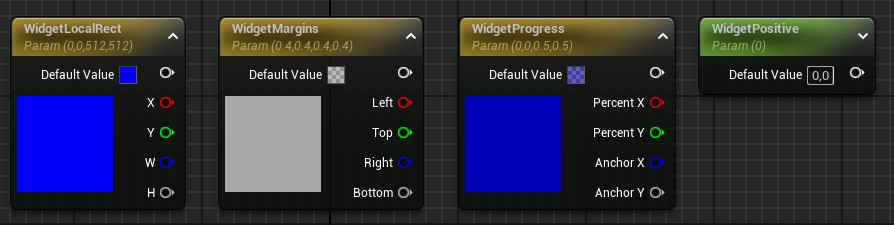
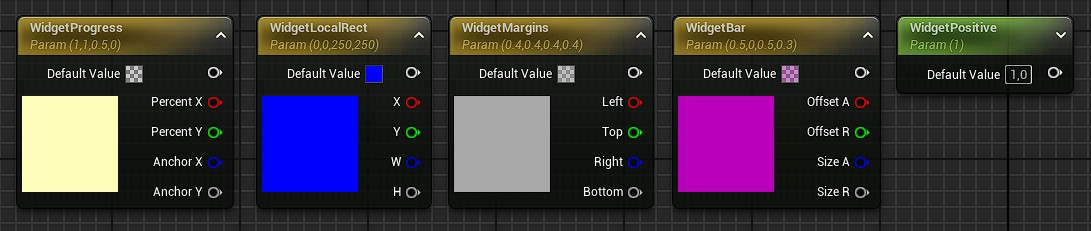
Updated HealthBar docs to v1.1.0

diff --git a/HealthBar/Customize.md b/HealthBar/Customize.md
@@ -1,0 +1,127 @@
+---
+label: Customize
+order: -50
+---
+
+# Customize Your Bars
+
+This plugin lets you create virtually any style of bar.
+No matter how much experience you have with materials and shaders, you can customize your health and progress bars however you like.
+
+## :icon-rocket: Easy Customization
+
+If you don't have much experience with materials in Unreal Engine, the plugin includes a basic material named `MM_CHB`.
+This basic material is sufficient in most cases, so I'd recommend you to try it first before starting creating your own material.
+
+The first thing is to create a new `Material Instance` and set its parent to `MM_CHB`.
+
+![](/static/images/HealthBar/chb_material_parent.jpg)
+
+!!!info
+After setting the parent, close the asset and re-open it to refresh the window.
+!!!
+
+Depending on your needs, you may have to create multiple material instances (background, fill, preview, fade).  
+There are a lot of parameters in the material to let you build the health bar *you* want.
+
+### Category: `Bar`
+
+![](/static/images/HealthBar/chb_material_settings_bar.jpg)
+
+- **`Fill Image`**: The texture used for the bar. It can be either the inner filling bar (for fill, preview and fade), or the background (if you want to use the material for the background, for example with radial bars).  
+- **`Fill Image Scale`**: Modify the pixel density of the fill texture. Useful to grow or shrink the size of the border.
+- **`Enable Positive/Negative`**: Enable the use of the positive or negative value passed to the shader.
+- **`Tint`**: The fill image will be multiplied with this color. If the positive/negative feature is enabled, you can set a separate color for the positive and negative case.
+
+!!!info
+As of now, the `Positive` value is passed only to the preview and fade of the health bar widget. The fill and background will not have it.
+!!!
+
+!!!tip
+I recommend you to use as much as possible a white tint (if disabling the positive/negative feature) so you will be able to use the same material and change the color in the widget itself.
+!!!
+
+### Category: `Radial`
+
+![](/static/images/HealthBar/chb_material_settings_radial.jpg)
+
+If you set the widget's filling type on `Radial`, you need to enable the radial feature on the material too.
+
+This switches the UV coordinate from orthogonal to polar coordinate system. It adds 30% more instructions to the material, though.
+
+- **`ReverseY`**: This will reverse the Y axis of the UV to make it upside-down.
+- **`Crop Margins`**: Those switches will crop out the borders of the texture. Useful if you want to use a box texture to make a full 360° bar without the left and right border. It is better to use directly a texture without the borders, though.
+
+### Category: `Overlay`
+
+![](/static/images/HealthBar/chb_material_settings_overlay.jpg)
+
+You can enable or disable the overlay on the bar. If you disable it, the material is more optimized.
+
+- **`Overlay Image`**: Set the texture you want for the overlay here.
+- **`Overlay Opacity`**: Controls the lerp between the `Fill Image` and the `Overlay Image`.
+- **`Speed X/Y`**: Animate the overlay along the X or Y axis at the specified speed. If you enabled the positive/negative feature, the speed will be reversed when negative.
+- **`Mirror X/Y when Negative`**: If you enabled the positive/negative feature, the overlay will be mirrored along the X or Y axis if negative, instead of reversing the speed.
+- **`Enable Absolute X/Y`**: If enabled, the texture UV will be screen space absolute instead of widget relative. For radial bar, absolute means the overlay UV will be absolute on the polar coordinate from the center of the widget, regardless of the bar size/thickness (X=0 means 0° and X=1 means 360°, and Y=0 means the center of the widget and Y=1 means the border of the widget).
+- **`Enable Tiling X/Y`**: Use the overlay texture size to tile it on the X or Y axis.
+- **`Tiling Scale X/Y`**: When the tiling is enabled on the axis, modify the scale the tiling.
+
+### Category: `SetByCode`
+
+![](/static/images/HealthBar/chb_material_settings_setbycode.jpg)
+
+Those parameters are the ones (as the name of the category implies) set by the code of the plugin.
+
+You can still set specific values to preview how it will behave but they will be overridden by the widget.
+
+- **`WidgetBar`**: Only for radial bars. Defines the offset and size on each axis.
+- **`WidgetLocalRect`**: The location and size of the widget itself.
+- **`WidgetMargins`**: The box margins to define the border area of the texture. This is the margins set in the `Draw As Box` of the widget style.
+- **`WidgetPositive`**: The boolean to control if the bar is positive (1) or negative (0). It is set only for the preview and fade bars.
+- **`WidgetProgress`**: The progress percentage and the filling anchor for the filling bar.
+
+## :icon-mortar-board: Advanced Customization
+
+You can create your own materials for your health bars.
+This section explains what the plugin offers to help you create amazing materials.
+
+!!!tip
+The widget automatically creates Dynamic Material Instances (MIDs) for the brushes if needed.
+!!!
+
+### Exposed Parameters
+
+If your materials contain specific parameters, the widget will update them every frame during the `OnPaint` cycle, allowing you to create advanced shaders (e.g. moving patterns, borders, tiling, etc.) that react to the bar's state.
+
+!!!warning
+Make sure your parameters are named exactly as described here!
+!!!
+
+![](/static/images/HealthBar/chb_materialparams.jpg)
+
+{.compact}
+
+| Parameter Name | Type | Description |
+| --- | --- | --- |
+| `WidgetLocalRect` | `Vector4` | The local geometry of the widget.<br>`X`, `Y`: Top-Left position<br>`Z`, `W`: Width and Height |
+| `WidgetMargins` | `Vector4` | The padding values set on the widget.<br>`X`: Left<br>`Y`: Top<br>`Z`: Right<br>`W`: Bottom
+| `WidgetProgress` | `Vector4` | Current fill status.<br>`X`, `Y`: Fill Progress (0.0 to 1.0) on X and Y axes.<br>`Z`, `W`: Anchor point (0.0=Start, 0.5=Center, 1.0=End). |
+| `WidgetBar` | `Vector4` | Set when fill type is on `Radial`.<br>`X`: The angular offset of the bar (0.0 = 0°, 1.0 = 360°)<br>`Y`: The radius offset of the bar.<br>`Z`: The angular size of the bar (0.0 = 0°, 1.0 = 360°)<br>`W`: The radius size of the bar (percentage of half of the widget size). |
+| `WidgetPositive` | `Scalar` | Context-sensitive boolean flag.<br>`1.0`: The specific bar (Preview/Fade) represents a "positive" delta (Healing/Gain).<br>`0.0`: Represents a "negative" delta (Damage/Loss). |
+
+### 9-Slice Material Node
+
+![](/static/images/HealthBar/chb_9slice_node.jpg)
+
+Since I was not happy with the default `Draw as Box` of Unreal Engine, I've created a custom material node to make the 9-slice of the UV in the material.
+
+By default, the 9-slice of UE (the `Draw as Box`) will stretch the borders when the size of the widget is smaller than the size of the borders.
+
+So I've implemented a custom 9-slice node, usable in your materials, which properly handles the border's UVs when the size of the widget is smaller than the size of the borders.
+
+![](/static/images/HealthBar/chb_9slice_demo.gif){width=50%}
+
+The main issue is that this node needs some data not accessible by default in the material.
+The needed data are: the widget size and the brush's margin for the box.
+
+Those parameters are provided from the parameters in the [above section](#exposed-parameters). So you don't have to code anything special by yourself in your widgets.

diff --git a/HealthBar/index.md b/HealthBar/index.md
@@ -17,7 +17,7 @@ icon: heart
 [!button variant="info" icon="download" size="l" target="blank" text="Get it on Fab!"](https://fab.com/listings/c1350561-e596-4bed-aa28-12aab5c18d85)
 :::
 
-The Crux Health Bar is a highly customizable UMG/Slate widget designed for all types of games.
+The **Crux Health Bar** is a highly customizable UMG/Slate widget designed for all types of games.
 It extends the standard progress bar functionality with built-in support for "damage preview", smooth "catch-up" fading animations, and dual-axis filling strategies.
 
 The widget is built on a custom Slate implementation (SCXHealthBar) for performance and exposes a standard UMG interface (UCXHealthBar).
@@ -35,10 +35,11 @@ The widget is built on a custom Slate implementation (SCXHealthBar) for performa
 - **Padding**  
   This defines the filling bounding box. The 0% and 100% will be determined by taking into account this area.  
   
-  > [!note]
-  > You can toggle the `Draw Debug` in the advanced section to visualize the padding.  
-  > It will be depicted by a yellow rectangle when the widget is selected.
-  
+  !!!
+  You can toggle the `Draw Debug` in the advanced section to visualize the padding.  
+  It will be depicted by a yellow rectangle when the widget is selected.
+  !!!
+
   ![](/static/images/HealthBar/chb_padding.jpg){width=50%}
 
 - **Filling Strategy**  
@@ -50,14 +51,15 @@ The widget is built on a custom Slate implementation (SCXHealthBar) for performa
   ![](/static/images/HealthBar/chb_horizontal_demo.gif){width=50%}
 
 - **Fill Type**  
-  - **Mask**: The image is clipped (masked) to show progress. Useful for complex textures that shouldn't be distorted.
-  - **Scale**: The image geometry itself is scaled. Useful for simple gradients or solid colors.
+  - **Mask**: The image is clipped (masked) to show progress. Simple and basic.
+  - **Scale**: The image geometry itself is scaled. Set your images as `Draw as Box` and define your margins to get the borders not distorted.
+  - **Radial**: A special filling type to create a circular progress bar. See [Radial Bars](./Radial.md) page for more details on it.
 
-  ![](/static/images/HealthBar/chb_scalemask_demo.gif){width=50%}
+  ![](/static/images/HealthBar/chb_scalemask_demo.gif){width=50%} ![](/static/images/HealthBar/chb_radial_demo.gif)
 
 You can get more details on the features by visiting the following pages:
 
 [!ref](./Preview.md)
 [!ref](./Fade.md)
-[!ref](./MaterialParams.md)
-[!ref](./MaterialNode.md)
+[!ref](./Radial.md)
+[!ref](./Customize.md)

diff --git a/HealthBar/Radial.md b/HealthBar/Radial.md
@@ -1,0 +1,41 @@
+---
+label: Radial Bars
+order: -15
+---
+
+# Radial Bars
+
+![](/static/images/HealthBar/chb_radialbars_demo.gif){width=50%}
+
+The plugin provide a way to create radial (circular) health/progress bars.
+
+### Behavior
+
+The `Radial` filling type behaves exactly as the `Scale` filling type.
+
+However, there are some considerations to take into account.
+
+First, a standard health/progress bar is fully defined directly using the WidgetRect, but a radial bar can't be fully defined by its WidgetRect.
+So there are some new settings available when using the `Radial` filling type (see next section for more details).
+
+Secondly, the full bar is anchored depending on the filling direction.
+You can see an example on the animation below.
+I made that in case you want your full bar to reflect the increase in max health or stamina for example, so your bar grows in the same direction as the filling direction.
+
+![](/static/images/HealthBar/chb_radial_anchor.gif){width=70%}
+
+!!!info
+When using a texture with a border, the bar will not make a full circle.
+If you want to make a full closed circle, please refer to the [Customize Your Bars](./Customize.md) page
+!!!
+
+### Configuration
+
+![](/static/images/HealthBar/chb_radial_settings.jpg)
+
+![](/static/images/HealthBar/chb_radial_settings_demo.gif)
+
+- **Offset Angle**: Rotate the whole bar clockwise in degree, independent of filling direction.
+- **Size Angle**: The angular size in degree of the whole bar.
+- **Offset Radius**: Modify the radius of the bar. Mostly useful when using `Bottom to Top` filling direction.
+- **Bar Thickness**: The radius size in pixels of the whole bar.

diff --git a/HealthBar/MaterialParams.md b/HealthBar/MaterialParams.md
@@ -1,27 +1,6 @@
 ---
-label: Material Parameters
-order: -50
+redirect: Customize.md#exposed-parameters
+visibility: hidden
 ---
 
 # Custom Material Parameters
-
-The widget automatically attempts to create Dynamic Material Instances (MIDs) for the brushes assigned to it.
-
-If your materials contain specific parameters, the widget will update them every frame during the `OnPaint` cycle, allowing you to create advanced shaders (e.g. moving patterns, borders, tiling, etc.) that react to the bar's state.
-
-### Exposed Parameters
-
-> [!Note]
-> If the brush uses a standard texture, these parameters are simply **ignored**.  
-> They are **only** relevant if a **customized Material** is used.
-
-![](/static/images/HealthBar/chb_materialparams.jpg)
-
-{.compact}
-
-| Parameter Name | Type | Description |
-| --- | --- | --- |
-| `WidgetLocalRect` | `Vector4` | The local geometry of the widget.<br>`X`, `Y`: Top-Left position<br>`Z`, `W`: Width and Height |
-| `WidgetMargins` | `Vector4` | The padding values set on the widget.<br>`X`: Left<br>`Y`: Top<br>`Z`: Right<br>`W`: Bottom
-| `WidgetProgress` | `Vector4` | Current fill status.<br>`X`, `Y`: Fill Fraction (0.0 to 1.0) on X and Y axes.<br>`Z`, `W`: Anchor point (0.0=Start, 0.5=Center, 1.0=End). |
-| `WidgetPositive` | `Scalar` | Context-sensitive boolean flag.<br>`1.0`: The specific bar (Preview/Fade) represents a "positive" delta (Healing/Gain).<br>`0.0`: Represents a "negative" delta (Damage/Loss). |

diff --git a/HealthBar/MaterialNode.md b/HealthBar/MaterialNode.md
@@ -1,25 +1,6 @@
 ---
-label: 9-Slice Material Node
-order: -51
+redirect: Customize.md#9-slice-material-node
+visibility: hidden
 ---
 
 # 9-Slice Material Node
-
-![](/static/images/HealthBar/chb_9slice_node.jpg)
-
-Since I was not happy with the default `Draw as Box` of Unreal Engine, I've created a custom material node to make the 9-slice of the UV in the material.
-
-By default, the 9-slice of UE (the `Draw as Box`) will stretch the borders when the size of the widget is smaller than the size of the borders.
-
-So I've implemented a custom 9-slice node, usable in materials, which properly handles the border's UVs when the size of the widget is smaller than the size of the borders.
-
-![](/static/images/HealthBar/chb_9slice_demo.gif){width=50%}
-
-The main issue is that this node needs some data not accessible by default in the material.
-The needed data are: the widget local size (not the draw size), and the brush's margin for the box.
-
-The plugin will passes automatically those parameters to the materials of the widget.
-You can see [the Material Parameters](./MaterialParams.md) to know how to include the parameters in your own materials.
-
-The plugin also includes a basic material named `MM_CHB` using this node.
-If you just want to change the images and colors, you can create material instances of this basic material.
